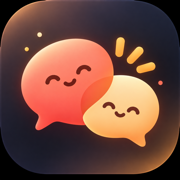
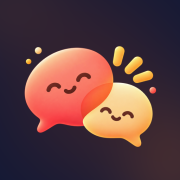
fix: DEV-47 PWA 아이콘 교체 (가장자리까지 채운 아이콘 + maskable) (#284)

diff --git a/apps/web/app/manifest.ts b/apps/web/app/manifest.ts
@@ -18,13 +18,8 @@ export default function manifest(): MetadataRoute.Manifest {
     background_color: DEFAULT_THEME_COLOR,
     theme_color: DEFAULT_THEME_COLOR,
     lang: "ko",
-    // Only "any" purpose — the source art has its own rounded-corner
-    // shape baked in (no alpha channel), not a full-bleed safe-zone
-    // design, so declaring it "maskable" would let Android's own mask
-    // shape reveal those baked-in corners instead of a clean edge. Add a
-    // real maskable variant (content within the inner ~80% circle,
-    // background filling all the way to the edges) if that's ever
-    // designed separately.
+    // The opaque background fills the edges so OS masks leave no baked-in
+    // corners. Circular masks may crop outer sparkles; this is intentional.
     icons: [
       {
         src: "/icon-192.png",
@@ -35,6 +30,12 @@ export default function manifest(): MetadataRoute.Manifest {
         src: "/icon-512.png",
         sizes: "512x512",
         type: "image/png",
+      },
+      {
+        src: "/icon-512.png",
+        sizes: "512x512",
+        type: "image/png",
+        purpose: "maskable",
       },
     ],
   };
